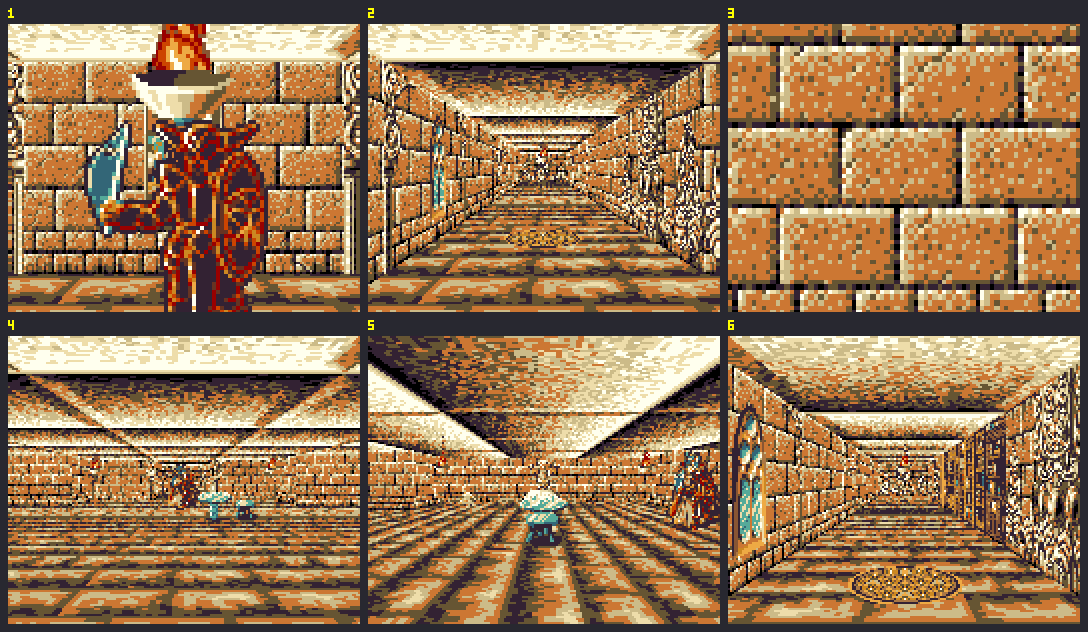
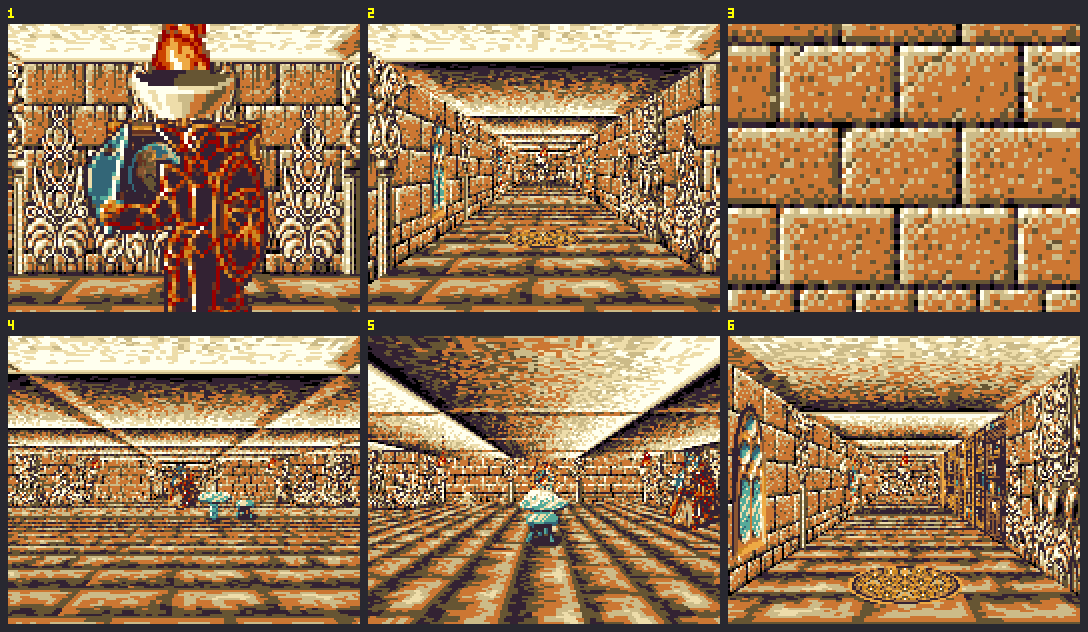
S'Riel walls only 131-133 with relief pillar corners, Lyramion painting from Robert's picture on a relief pillar, blue-green switch on the pillar at the same height as the painting

diff --git a/assets/Temples/tools/build_prototype.py b/assets/Temples/tools/build_prototype.py
@@ -13,7 +13,8 @@ Writes:
   into sandstone without new graphics
 - 3Lab_data.amb: the same labdata 46 (2Lab_data and 3Lab_data must stay identical)
 - 2Object3D.amb 413-416: fire bowl halves (from textures/sketches) and the crystal stool and table
-- 2Overlay3D.amb 156/157: the switch overlays 133/134 with a blue-green knob
+- 2Overlay3D.amb 156/157: the switch overlays 133/134 with a blue-green knob, 158: the painting of Lyramion
+- 2Wall3D.amb 201: the sandstone wall with the see-through barred gate
 - 2Wall3D.amb 193-200 / 2Overlay3D.amb 151-155: copies of the stone walls and overlays without the colours
   12/13, which are blue-green accents in palette 59
 - Save.00/Automap.amb: automap entries up to the new map (485 and 486 were missing too)
@@ -81,6 +82,16 @@ BARS_TEX, BARS_SOURCE = 201, 74
 TRANSPARENT_SOLID = 0x40000088                       # blocks movement, transparent, does not block sight
 NEW_WALLS.append((BARS_TEX, TRANSPARENT_SOLID, 1, 4, []))  # 137: barred gate
 W_BARS = 137
+# relief pillar (wall 104) with the painting and with the blue-green switch below it (S'Riel)
+NEW_WALLS += [
+    (100, SOLID, 1, 4, [(1, 158, 32, 20, 64, 40)]),  # 138: relief pillar with the painting of Lyramion and its moons
+    (100, SOLID, 1, 4, [(1, 156, 40, 24, 40, 32)]),  # 139: relief pillar with switch (off), behind the painting (both centred at y 40)
+    (100, SOLID, 1, 4, [(1, 157, 40, 24, 40, 32)]),  # 140: relief pillar with switch (on)
+]
+W_PILLAR_PAINTING, W_PILLAR_SWITCH_OFF, W_PILLAR_SWITCH_ON = 138, 139, 140
+# 2Overlay3D.amb 158: Robert's painting textures/sketches/lyramion-image.png (magenta background) area-averaged to
+# 64x40 and mapped to the nearest of the colours 1-15 of palette 59
+PAINTING_OVERLAY, PAINTING_SIZE = 158, (64, 40)
 
 # labdata 5 walls (tile values) and object groups
 W_DOOR, W_ARCHES, W_PLAIN, W_PILLAR, W_FRIEZE, W_GATE = 101, 102, 103, 104, 105, 106
@@ -206,24 +217,25 @@ def sriel():
         for x in range(5, 10):
             floor.add((x, y))
     painting, secret, exit_ = (7, 10), (7, 4), (7, 12)
+    # walls only 131-133 (Robert, 2026-11-14), corners as relief pillars (104): a corner has floor on two
+    # perpendicular sides or only diagonally
     for y in range(1, p.h + 1):
         for x in range(1, p.w + 1):
             if (x, y) in floor:
                 p.tiles[y][x] = 0
             elif any((x + dx, y + dy) in floor for dx in (-1, 0, 1) for dy in (-1, 0, 1)):
-                p.tiles[y][x] = W_PLAIN
+                ns = (x, y - 1) in floor or (x, y + 1) in floor
+                we = (x - 1, y) in floor or (x + 1, y) in floor
+                p.tiles[y][x] = W_FRAMES if ns != we else W_PILLAR
     walls = {
         # outer wall
-        exit_: W_DOOR_FRAMED, (6, 12): W_FRIEZE, (8, 12): W_FRIEZE, (5, 12): W_FRAMES_WINDOW, (9, 12): W_FRAMES_WINDOW,
+        exit_: W_DOOR_FRAMED, (5, 12): W_FRAMES_WINDOW, (9, 12): W_FRAMES_WINDOW,
         (7, 2): W_FRAMES_ROSETTE, (5, 2): W_FRAMES_WINDOW, (9, 2): W_FRAMES_WINDOW,
-        (2, 7): W_FRAMES_CREST, (2, 5): W_FRAMES_WINDOW, (2, 9): W_FRAMES_WINDOW,
-        (12, 7): W_FRAMES_CREST, (12, 5): W_FRAMES_WINDOW, (12, 9): W_FRAMES_WINDOW,
-        (3, 3): W_PILLAR, (11, 3): W_PILLAR, (3, 11): W_PILLAR, (11, 11): W_PILLAR,
+        (2, 7): W_FRAMES_ROSETTE, (2, 5): W_FRAMES_WINDOW, (2, 9): W_FRAMES_WINDOW,
+        (12, 7): W_FRAMES_ROSETTE, (12, 5): W_FRAMES_WINDOW, (12, 9): W_FRAMES_WINDOW,
         # central block (seen from the corridor and from the chamber)
-        painting: W_PAINT1, (6, 10): W_FRAMES, (8, 10): W_FRAMES, (5, 10): W_FRIEZE, (9, 10): W_FRIEZE,
-        (6, 4): W_FRAMES, (8, 4): W_FRAMES, (5, 4): W_FRIEZE, (9, 4): W_FRIEZE,
-        (4, 7): W_CREST, (4, 5): W_PILLAR, (4, 9): W_PILLAR,
-        (10, 6): W_SHELF1, (10, 7): W_SHELF2, (10, 8): W_SHELF1, (10, 5): W_PILLAR, (10, 9): W_PILLAR,
+        painting: W_PILLAR_PAINTING, (4, 7): W_FRAMES_ROSETTE,
+        (10, 6): W_SHELF1, (10, 7): W_SHELF2, (10, 8): W_SHELF1,
     }
     for (x, y), t in walls.items():
         p.tiles[y][x] = t
@@ -259,13 +271,13 @@ def sriel():
         cond(0x14, 1, 0, base + 5),                                         # 0 eye? (else hand branch)
         cond(0x00, 0, VAR_PAINTING_REMOVED),                                # 1 painting still hanging?
         text(5, 0),                                                         # 2 "Lyramion and its moons ..."
-        word(ev(0x0a, painting[0], painting[1]), 6, W_PLAIN_SWITCH_OFF),   # 3
+        word(ev(0x0a, painting[0], painting[1]), 6, W_PILLAR_SWITCH_OFF),  # 3
         word(ev(0x0e, 0x00, 1), 6, VAR_PAINTING_REMOVED),                   # 4
         cond(0x0e, 1),                                                      # 5 hand?
         cond(0x00, 1, VAR_PAINTING_REMOVED),                                # 6 switch visible?
         cond(0x00, 0, VAR_SWITCH_USED),                                     # 7 not used yet?
         text(6, 0),                                                         # 8 "the switch ..."
-        word(ev(0x0a, painting[0], painting[1]), 6, W_PLAIN_SWITCH_ON),    # 9
+        word(ev(0x0a, painting[0], painting[1]), 6, W_PILLAR_SWITCH_ON),   # 9
         word(ev(0x0a, secret[0], secret[1]), 6, 0),                         # 10 secret wall opens
         word(ev(0x0e, 0x00, 1), 6, VAR_SWITCH_USED),                        # 11
     ], painting)
@@ -485,7 +497,40 @@ def recoloured_graphics(lab):
         for x in xs:
             gate[y][x] = 6 if x - xs[0] < 1 or xs[-1] - x < 1 else src[y][x]
     wall_files[BARS_TEX] = tx.encode_texture(gate, 128)
+    ovl_files[PAINTING_OVERLAY] = painting_overlay(tx)
     return wall_files, ovl_files, wall_map, ovl_map
+
+
+def painting_overlay(tx):
+    from PIL import Image
+    pal = build_palette(SANDSTONE)
+    pal = [struct.unpack('>H', pal[i * 2:i * 2 + 2])[0] for i in range(16)]
+    pal = [((c >> 8) * 17, ((c >> 4) & 15) * 17, (c & 15) * 17) for c in pal]
+    im = Image.open(os.path.join(FIRE_BOWL_SKETCHES, 'lyramion-image.png')).convert('RGB')
+    px, (iw, ih) = im.load(), im.size
+    magenta = lambda c: c[0] > 200 and c[2] > 200 and c[1] < 80                  # noqa: E731
+    xs, ys = zip(*[(x, y) for y in range(0, ih, 2) for x in range(0, iw, 2) if not magenta(px[x, y])])
+    x0, x1, y0, y1 = min(xs), max(xs) + 1, min(ys), max(ys) + 1
+    w, h = PAINTING_SIZE
+    rows = []
+    for ty in range(h):
+        row = []
+        for tx_ in range(w):
+            acc, n, t = [0, 0, 0], 0, 0
+            for y in range(int(y0 + (y1 - y0) * ty / h), int(y0 + (y1 - y0) * (ty + 1) / h), 2):
+                for x in range(int(x0 + (x1 - x0) * tx_ / w), int(x0 + (x1 - x0) * (tx_ + 1) / w), 2):
+                    t += 1
+                    c = px[x, y]
+                    if not magenta(c):
+                        acc = [a + b for a, b in zip(acc, c)]
+                        n += 1
+            v = 0
+            if t and n / t >= 0.5:
+                c = [a / n for a in acc]
+                v = min(range(1, 16), key=lambda i: 2 * (pal[i][0] - c[0]) ** 2 + 4 * (pal[i][1] - c[1]) ** 2 + 3 * (pal[i][2] - c[2]) ** 2)
+            row.append(v)
+        rows.append(row)
+    return tx.encode_texture(rows, w)
 
 
 def walls_all():

diff --git a/TODO.md b/TODO.md
@@ -188,7 +188,7 @@ Order and details: `000 Plan Episode 4.md`, milestones M1–M4.
   - Optics: mockups in `assets/Temples/mockups/` (Gala/Sansri textures, one palette per temple).
   - **Prototypes** in `assets/Temples/prototypes/` (labdata 46 = temple base, see `assets/Temples/Labdata 46.md`): S'Riel (map 487, palette 59) and S'Orel (map 488, palette 60, monster group 172). Test on the Amiga with a new game and the cheat map jump. Next: S'Arin.
   - S'Orel rebuilt from Robert's sketch (2026-11-14): round 13x13 map like S'Riel, palette 60. The ring corridor is split by the wall (3,7) and the barred gate (11,7) (new wall 137, see-through texture 201 with the gate of wall 74 and the transparency flag). The switch (2,8) in the west corridor (wall 135/136) lifts the east gate, the north gate (7,4) opens with key 388 (door 33 like 445), by eye or hand (multi cursor condition). Bookshelf (2,6) = chest 118 with spell scrolls (Robert's list plus the scrolls of the old chest 119), central chamber with the serpent totem (7,7), crystal table (5,7) with stools above and below (groups 46-48), bed (9,8), four fire bowls, chest 119 (7,9): key 389, crystal strings, Morag robe and dart (from 118), Morag sword, shield and armour (from 120), 9 ancient fragments, 521 gold. Guards: group 172 in the chamber (7,6), group 67 in the east corridor (11,5). Tested in the remake (switch, key gate, shelf, chest, furniture). Chest indices in chest events are 0-based (event value + 1 = Chest_data entry, the xlsx Chests sheet counts the entries); chest 116 belongs to map 438, chests 118/120 are still used by the old temples 444/445.
-  - S'Riel rebuilt from Robert's sketch (2026-11-13): round 13x13 map with a ring corridor around the central chamber, fire bowls hanging from the ceiling (new object group 42, built like merged.pdn), crystal table and stool (groups 43/44, textures 415/416, stool at x = 0 and table at x = 384 so they stand together), bed, chest 117 (key 388, 7 ancient fragments added 2026-11-14; the first build wrongly opened chest 118), shelves with texts, carpets, guard group 67 at (7,6) in the chamber and (7,11) at the entrance, arrival at (7,5): chamber guard hidden (character bit), music 30, delay 500 ms, arrival text, the Moranian (new object group 45) at (7,6) vanishes, the guard appears and attacks, map music again (tested in the remake, the music itself not checked), the third shelf is a council register with S'Riel's notes on S'Trog, S'Kat and S'Lorwin. Painting at (7,10): eye -> text (~LEAD~ recognises Lyramion and its moons), the painting is taken down and a switch appears (wall 135 with the blue-green switch overlay 156, global var 478), hand -> switch on (wall 136, overlay 157, var 479) and the secret wall (7,4) to the chamber opens. Tested in the remake. To do: own painting overlay with Lyramion and its moons (Robert makes the picture, the placeholder is the landscape painting 117); xlsx (it was open in LibreOffice): GlobalVars 478/479, ObjectGfx 413-416, Overlays 156/157, WallGfx 201, Labdata 46 groups 42-48 and walls 135-137, Chests 117-119 and the Shards sheet (7 fragments in chest 117, 9 in chest 119).
+  - S'Riel rebuilt from Robert's sketch (2026-11-13): round 13x13 map with a ring corridor around the central chamber, fire bowls hanging from the ceiling (new object group 42, built like merged.pdn), crystal table and stool (groups 43/44, textures 415/416, stool at x = 0 and table at x = 384 so they stand together), bed, chest 117 (key 388, 7 ancient fragments added 2026-11-14; the first build wrongly opened chest 118), shelves with texts, carpets, guard group 67 at (7,6) in the chamber and (7,11) at the entrance, arrival at (7,5): chamber guard hidden (character bit), music 30, delay 500 ms, arrival text, the Moranian (new object group 45) at (7,6) vanishes, the guard appears and attacks, map music again (tested in the remake, the music itself not checked), the third shelf is a council register with S'Riel's notes on S'Trog, S'Kat and S'Lorwin. Walls only 131-133, corners as relief pillars 104 (2026-11-14). Painting at (7,10) on a relief pillar (wall 138, Robert's Lyramion picture as overlay 158): eye -> text (~LEAD~ recognises Lyramion and its moons), the painting is taken down and a switch appears (wall 139, relief pillar with the blue-green switch overlay 156, global var 478), hand -> switch on (wall 140, overlay 157, var 479) and the secret wall (7,4) to the chamber opens. Tested in the remake. To do: xlsx (it was open in LibreOffice): GlobalVars 478/479, ObjectGfx 413-416, Overlays 156-158, WallGfx 201, Labdata 46 groups 42-48 and walls 135-140, Chests 117-119 and the Shards sheet (7 fragments in chest 117, 9 in chest 119).
   - Stronger temple guards (new monsters) are still missing, the prototypes only use the magic guard (monster 42).
   - Savegame patcher: add the automaps 485, 486, 487 and 488 (missing in old saves → fatal error on the Amiga when entering these maps).
   - Remake test works (`make_testdata.py` + teleport cheat), screenshots in `assets/Temples/prototypes/`.

diff --git a/assets/Temples/Labdata 46.md b/assets/Temples/Labdata 46.md
@@ -75,6 +75,9 @@ Die Steinfarben stammen aus einem Helligkeitsabgleich von Wand 99 mit der Sandst
 | 135 | 99 | 156 | | **neu:** Grundwand mit Schalter (aus), hinter dem Gemälde in S'Riels Tempel. Overlay 156 = Kopie von 133 mit blaugrünem Knopf |
 | 136 | 99 | 157 | | **neu:** Grundwand mit Schalter (an), Overlay 157 = Kopie von 134 mit blaugrünem Knopf |
 | 137 | 201 | | | **neu:** Gittertor, durchsichtig (Flags 0x40000088 mit Transparenz 0x08, blockiert die Sicht nicht). Textur 201 = Sandsteinwand 195 mit dem Gittertor aus Wandtextur 74 (Bogen x 51–84), die Lücken bleiben Farbe 0 und sind dadurch durchsichtig, das äußerste Pixel links und rechts ist dunkel, die schwarzen Fugen des Sandsteins sind Farbe 6 |
+| 138 | 100 | 158 | | **neu:** Reliefpfeiler mit dem Gemälde von Lyramion und seinen Monden (Overlay 158 = `textures/sketches/lyramion-image.png`, auf 64×40 verkleinert, Farben 1–15 von Palette 59), S'Riel |
+| 139 | 100 | 156 | | **neu:** Reliefpfeiler mit blaugrünem Schalter (aus), hinter dem Gemälde (beide auf Höhe y = 40 zentriert) |
+| 140 | 100 | 157 | | **neu:** Reliefpfeiler mit blaugrünem Schalter (an) |
 
 Die Spalte „Textur“ nennt das Original. In den Daten steht bei den kopierten Texturen die Kopie (siehe oben). Im Map-Feld steht die Wandnummer direkt (101 = erste Wand). Weitere Overlays (Schalter, Schilder, Rätselmund, Ketten …) lassen sich jederzeit als neue Wände anhängen. Overlays müssen auf dem Amiga an 8-Pixel-Grenzen liegen (x = 0, 8, 16, …).
 
